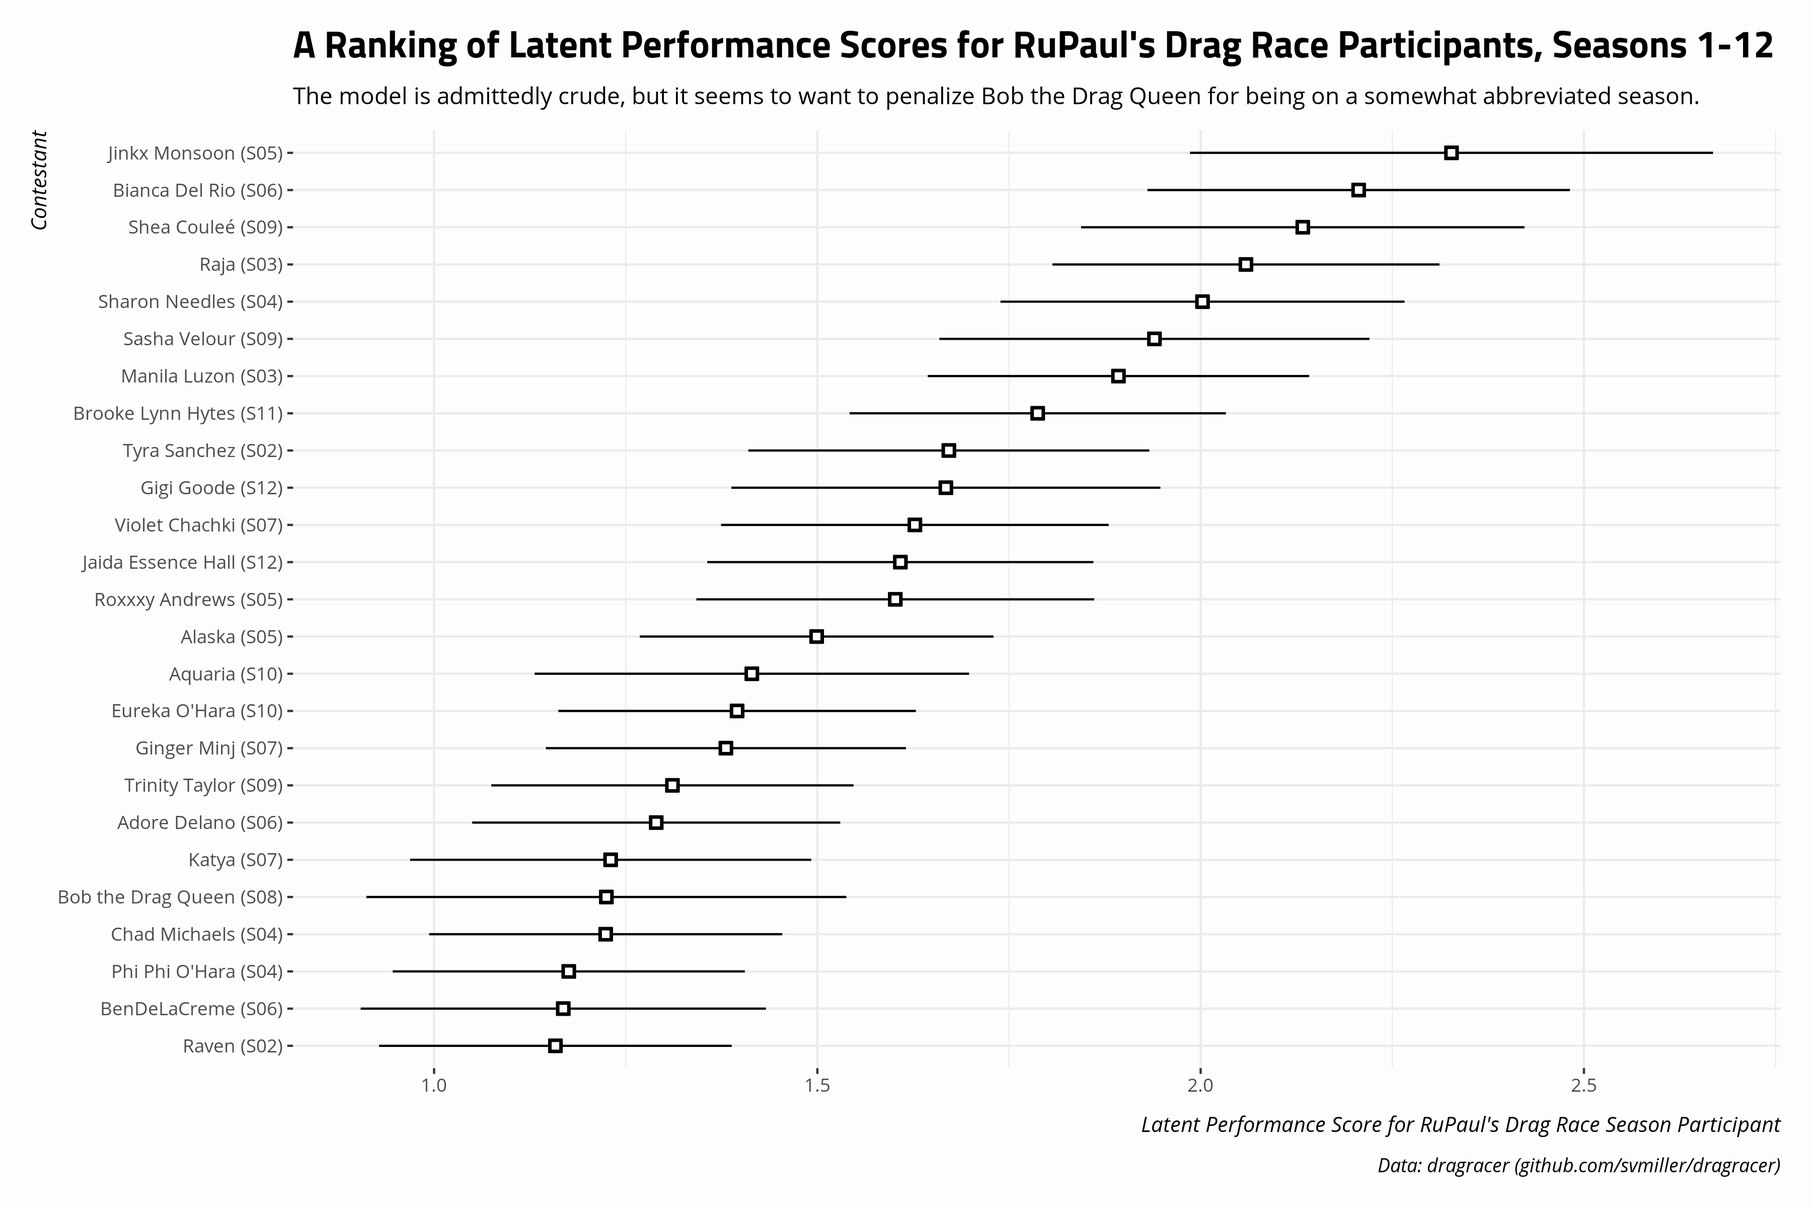
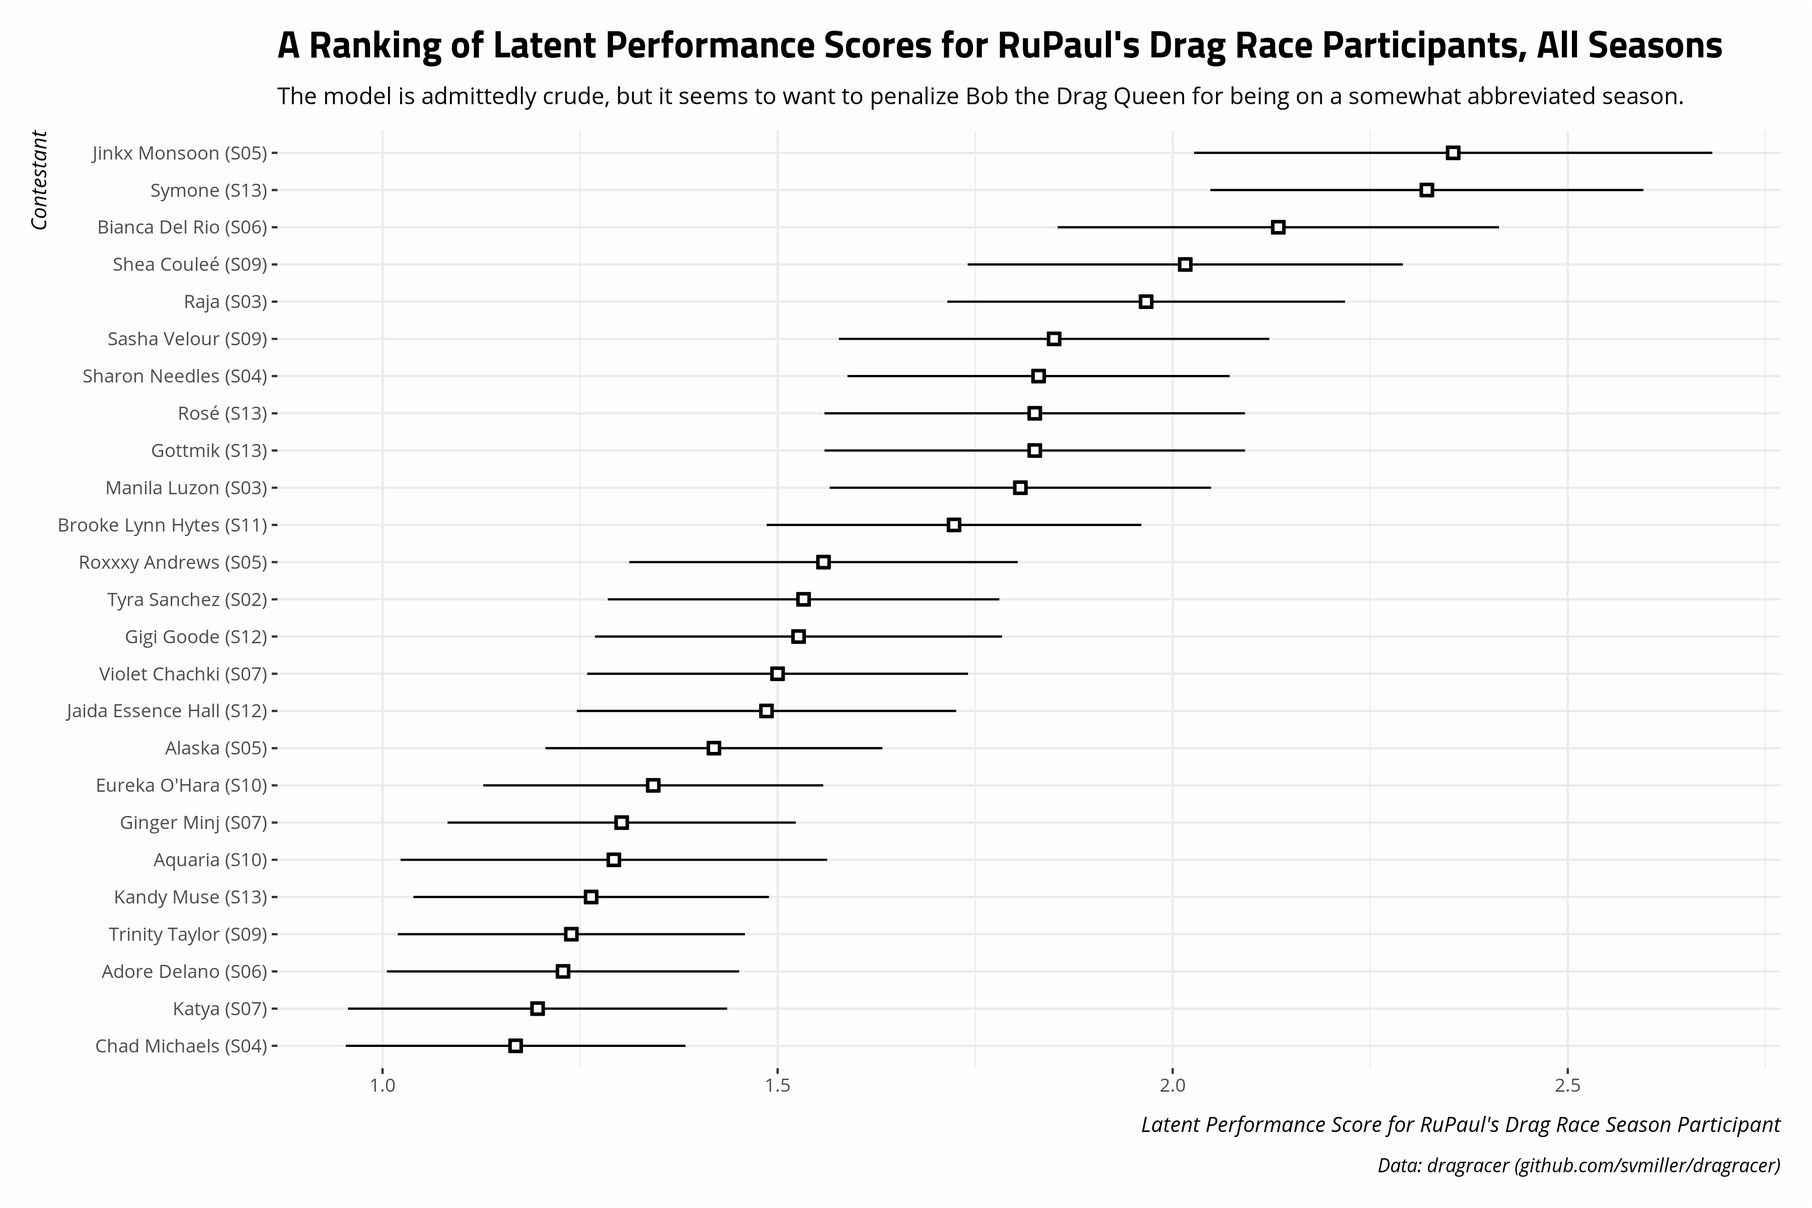
update

diff --git a/_posts/2019-02-17-dragracer-rupauls-drag-race-analysis.md b/_posts/2019-02-17-dragracer-rupauls-drag-race-analysis.md
@@ -21,7 +21,7 @@ image: "kameron-michaels.jpg"
 
 <!-- {% include image.html url="/images/kameron-michaels.jpg" caption="Kameron Michaels isn't quite sure what's happening below, but she's certainly a little revolted at the sight." width=410 align="right" %} -->
 
-*Last updated: March 20, 2021*
+*Last updated: April 24, 2021*
 
 My wife got me hooked into watching RuPaul's Drag Race with her. The long and short of it is I didn't need to have my arm twisted to watch or enjoy the show. Indeed, drag nights at Icon in Tuscaloosa---incidentally home to [the performer who gave Trinity her "Tuck" moniker](https://twitter.com/leland2genesis?lang=en)---are some of my fondest memories of graduate school. A performer who routinely served as opening act for her---[and sadly passed away](http://obits.al.com/obituaries/birmingham/obituary.aspx?n=kevin-thomas&pid=188344432&fhid=6039) last year---was among the sweetest/kindest people I knew in town.[^herdoc] I had a receptiveness to drag as concept and creative outlet, but oddly did not know about the show until my wife told me about it.
 
@@ -44,6 +44,7 @@ Here's a table of contents for this post, especially if you want to jump past th
     - [Assorted Season 1-10 🔥 Takes](#season10takes)
     - [Season 11 🔥 Takes](#season11takes)
     - [Season 12 🔥 Takes](#season12takes)
+    - [Season 13 🔥 Takes](#season13takes)
 
 ## About the Data/Methods {#datamethods}
 
@@ -59,17 +60,18 @@ There are some additional caveats.
 - The episode-level data has a `numqueens` column that codes the number of participants who were active in the episode. There were several cases where RuPaul reintroduced a performer---or, in the case of Season 7, an entire damn cast---at the start of the episode. In more than a few cases, those reintroduced were eliminated the exact same episode.
 - Related to that: I code that episode in Season 7 as a case where Pearl and Trixie Mattel were joint winners.
 - The finales for Season 9 and Season 10 are cases where the runner-up(s) (e.g. Peppermint, Season 9) scored high and those who lost the semifinals (e.g. Trinity Taylor, Season 9) were bottoms for that episode. Again, these are finales so the user should subset them out when comparing queens across different seasons.
+- Season 13 is going to be a clear outlier in comparing across seasons. If you wanted to standardize and compare across seasons in an honest way, you should probably omit the first three episodes as "uncompetitive" or "specials." My own interpretation is that a non-finale episode is "competitive" when there is a bottom-two lip-sync and someone could go home (even if it's a double-shantay). I elect to not do that here, just for ease.
 
 ## An Empirical Analysis of RuPaul's Drag Race Performances {#empirical}
 
-The data are far from perfect or complete, but they're workable for an empirical analysis of contestant performance for the 11 main seasons of RuPaul's Drag Race. Here, I'll explore some of the best performers in the herstory of the show with some rudimentary metrics. Namely, which contestants had the highest percentage of competitive (i.e. non-special, but non-finale) episodes in which they won, or scored high/won? Which queens scored the highest on the ["Dusted or Busted" scoring system](https://rupaulsdragrace.fandom.com/wiki/%22Dusted_or_Busted%22_Scoring_System)? The data aren't too hard to generate and require a few lines in `{tidyverse}`. The [source code](https://github.com/svmiller/svmiller.github.io/blob/master/_source/2019-02-17-dragracer-rupauls-drag-race-analysis.Rmd), along with version herstory, is available on the `_source` directory for my website. 
+The data are far from perfect or complete, but they're workable for an empirical analysis of contestant performance for all seasons of RuPaul's Drag Race (excluding All-Stars, which would be a mess to standardize). Here, I'll explore some of the best performers in the herstory of the show with some rudimentary metrics. Namely, which contestants had the highest percentage of competitive (i.e. non-special, but non-finale) episodes in which they won, or scored high/won? Which queens scored the highest on the ["Dusted or Busted" scoring system](https://rupaulsdragrace.fandom.com/wiki/%22Dusted_or_Busted%22_Scoring_System)? The data aren't too hard to generate and require a few lines in `{tidyverse}`. The [source code](https://github.com/svmiller/svmiller.github.io/blob/master/_source/2019-02-17-dragracer-rupauls-drag-race-analysis.Rmd), along with version herstory, is available on the `_source` directory for my website. 
 
 ### Comparing the Season Winners {#comparingseasonwinners}
 
-This will facilitate some kind of comparison, say, among the season-winners by reference to thier performance in main challenges/runways through the course of a season. I choose to focus on the percentage of wins, bottoms, etc. because the number of competitive episodes varies considerably through the 12 seasons. For example, Bebe Zahara Benet had just six episodes before the finale in which she could've been eliminated. Raja, Season's 3 winner, had the most (12). Seasons since then have had 10 or 11 competitive episodes, excluding the eight competitive episodes in Season 8.
+This will facilitate some kind of comparison, say, among the season-winners by reference to thier performance in main challenges/runways through the course of a season. I choose to focus on the percentage of wins, bottoms, etc. because the number of competitive episodes varies considerably through the 12 seasons. For example, Bebe Zahara Benet had just six episodes before the finale in which she could've been eliminated. Raja, Season's 3 winner, had 12. Seasons since then have had 10 or 11 competitive episodes, excluding the eight competitive episodes in Season 8. Season 13 was particularly long.
 
 <table id="stevetable">
-<caption>Ranking the RuPaul's Drag Race Winners from Season 1 to Season 12</caption>
+<caption>Ranking the RuPaul's Drag Race Winners Across All Seasons</caption>
  <thead>
   <tr>
    <th style="text-align:center;"> season </th>
@@ -190,6 +192,15 @@ This will facilitate some kind of comparison, say, among the season-winners by r
    <td style="text-align:center;"> 8.33% </td>
    <td style="text-align:center;"> 6 </td>
   </tr>
+  <tr>
+   <td style="text-align:center;"> S13 </td>
+   <td style="text-align:left;"> Symone </td>
+   <td style="text-align:center;"> 35.71% </td>
+   <td style="text-align:center;"> 50% </td>
+   <td style="text-align:center;"> 14.29% </td>
+   <td style="text-align:center;"> 14.29% </td>
+   <td style="text-align:center;"> 8 </td>
+  </tr>
 </tbody>
 </table>
 
@@ -210,7 +221,7 @@ The conclusion of Season 11 and addition of Yvie Oddly to this list of winners m
 I added an indicator to the contestant-episode data after season 12 noting which contestant was Miss Congeniality for the season. From there, we can compare the Miss Congenialities (sic?) across seasons.
 
 <table id="stevetable">
-<caption>Comparing Miss Congenialities, Season 1 to Season 12</caption>
+<caption>Comparing Miss Congenialities, All Seasons</caption>
  <thead>
   <tr>
    <th style="text-align:center;"> Season </th>
@@ -344,6 +355,16 @@ I added an indicator to the contestant-episode data after season 12 noting which
    <td style="text-align:center;"> 50% </td>
    <td style="text-align:center;"> -5 </td>
   </tr>
+  <tr>
+   <td style="text-align:center;"> S13 </td>
+   <td style="text-align:left;"> LaLa Ri </td>
+   <td style="text-align:center;"> 10 </td>
+   <td style="text-align:center;"> 16.67% </td>
+   <td style="text-align:center;"> 16.67% </td>
+   <td style="text-align:center;"> 33.33% </td>
+   <td style="text-align:center;"> 50% </td>
+   <td style="text-align:center;"> -3 </td>
+  </tr>
 </tbody>
 </table>
 
@@ -353,14 +374,14 @@ Nina Flowers has a special place in Drag Race herstory. It is highly unlikely th
 
 Second, my modeling of the data is particularly sanguine about Katya and BenDeLaCreme and how good they were in their respective seasons. As it is, my simple item response model later in this post features them prominently in the list of top 25 performers in the show's herstory, which is almost entirely comprised of season winners and runners-up. They are basically the lowest-ranked performers to appear in that top 25 list. Both were incidentally the Miss Congeniality winners for the season. 
 
-Finally, the most recent Miss Congeniality (as of writing) comes out as having the lowest D/B score among the Miss Congeniality winners. However, those who just watched the show know Heidi is a case of a performer gradually coming into her own as the season progressed and a case where metrics of season performance don't capture how enjoyable she was. Yet, she spent half the season in the bottom two or with a low evaluation.
+Finally, Heidi N Closet emerges as having the lowest D/B score among the Miss Congeniality winners. However, those who just watched the show know Heidi is a case of a performer gradually coming into her own as the season progressed and a case where metrics of season performance don't capture how enjoyable she was. Yet, she spent half the season in the bottom two or with a low evaluation.
 
 ### Who Were the Lowest-Ranked Performers to Land in the Top Four? {#lowesttop4}
 
-The data can also be used to identify the lowest-scoring performers to get a top four finish in the show's 12 seasons. There are several metrics available for ranking these performers, but I'll go in descending order, by "Dusted or Busted" score.
+The data can also be used to identify the lowest-scoring performers to get a top four finish across all seasons. There are several metrics available for ranking these performers, but I'll go in descending order, by "Dusted or Busted" score.
 
 <table id="stevetable">
-<caption>The Lowest Ranked Top Four Performers from Season 1 to Season 12</caption>
+<caption>The Lowest Ranked Top Four Performers Across All Seasons</caption>
  <thead>
   <tr>
    <th style="text-align:center;"> season </th>
@@ -489,14 +510,14 @@ Jackie Cox's entry into this list does hurt a little, the extent to which she wa
 
 ### Which Contestants Were "Robbed" in Their Season? {#robbed}
 
-I added this table after Season 11 ended because the selection of the champion is arguably a bit controversial. Not only does Yvie have the lowest "Dusted or Busted" score of any champion in a given season, but the queen she beat in the finale, Brooke Lynn Hytes, had a "Dusted or Busted" score a full three points higher. In fact, a latent variable analysis that I provide below will contend Brooke Lynne Hytes had the eighth best season of any performer in the show's herstory.
+I added this table after Season 11 ended because the selection of the champion is arguably a bit controversial. Not only does Yvie have the lowest "Dusted or Busted" score of any champion in a given season, but the queen she beat in the finale, Brooke Lynn Hytes, had a "Dusted or Busted" score a full three points higher. In fact, a latent variable analysis that I provide below will contend Brooke Lynne Hytes had one of the best seasons of any performer in the show's herstory.
 
 This would not be the first time a queen was "robbed" from winning her particular season (at least, if that's how you want to spin it). Long-time fans of the show probably know Ru started the first season with the idea of crowning BeBe Zahara Benet at the end, forgetting along the way that it meant Nina Flowers had a better season and finished second. The most prominent case of this might have been Shea Couleé, who entered the semifinals as the top performer in that season and was bulldozed in the semifinal by arguably the best individual lip sync in the show's herstory. Sasha Velour deserved to advance on the merits of the lip sync but it did mean Shea Couleé, who had arguably the third best run in the show's herstory to that point, did not snatch the crown.
 
-There are four such cases I show below where an individual performer had a higher "Dusted or Busted" score than the eventual winner that season. All four have unique situations. Nina finished second despite having the overall better record than Bebe Zahara Benet, but Ongina was woefully underplaced in her season. She too had a better "Dusted or Busted" score than the eventual champion, but finished in fifth place. Shea Couleé had arguably the best season run in the show's herstory but was eliminated in the semifinals. More recently, Brooke Lynn Hytes can now boast the biggest point differential in show herstory over an eventual champion. Her three-point cushion over the eventual season champion may not be topped.
+There are a few cases I show below where an individual performer had a higher "Dusted or Busted" score than the eventual winner that season, with more of them coming in more recent seasons. All have unique situations. Nina finished second despite having the overall better record than Bebe Zahara Benet, but Ongina was woefully underplaced in her season. She too had a better "Dusted or Busted" score than the eventual champion, but finished in fifth place. Shea Couleé had arguably the best season run in the show's herstory but was eliminated in the semifinals. More recently, Brooke Lynn Hytes can now boast the biggest point differential in show herstory over an eventual champion. Her three-point cushion over the eventual season champion may not be topped.
 
 <table id="stevetable">
-<caption>Queens Whose D/B Scores Were Greater Than the Season Champion</caption>
+<caption>Queens Whose D/B Scores Were Greater Than the Season Champion, All Seasons</caption>
  <thead>
   <tr>
    <th style="text-align:center;"> Season </th>
@@ -553,6 +574,24 @@ There are four such cases I show below where an individual performer had a highe
    <td style="text-align:center;"> 3 </td>
    <td style="text-align:center;"> 7 </td>
    <td style="text-align:center;"> 6 </td>
+  </tr>
+  <tr>
+   <td style="text-align:center;"> S13 </td>
+   <td style="text-align:left;"> Gottmik </td>
+   <td style="text-align:center;"> 3 </td>
+   <td style="text-align:center;"> 3 </td>
+   <td style="text-align:center;"> 5 </td>
+   <td style="text-align:center;"> 9 </td>
+   <td style="text-align:center;"> 8 </td>
+  </tr>
+  <tr>
+   <td style="text-align:center;"> S13 </td>
+   <td style="text-align:left;"> Rosé </td>
+   <td style="text-align:center;"> 3 </td>
+   <td style="text-align:center;"> 3 </td>
+   <td style="text-align:center;"> 5 </td>
+   <td style="text-align:center;"> 9 </td>
+   <td style="text-align:center;"> 8 </td>
   </tr>
 </tbody>
 </table>
@@ -715,7 +754,7 @@ The top 25 participants on this metric are listed below, with accompanying stand
 
 ![plot of chunk top-rupauls-drag-race-performers](/images/top-rupauls-drag-race-performers-1.png)
 
-Fans of the show are free to read into this what they want. I'm not too invested in what this demonstrates, but a few things are worth mentioning as quick hitters.
+Fans of the show are free to read into this what they want. Several Season 13 scores are going to be functions of those first three episodes, which will artificially prop up some scores even if (I think) they were uncompetitive. I'm not too invested in what this demonstrates, but a few things are worth mentioning as quick hitters.
 
 {% include image.html url="/images/bendela-going-home.gif" caption="She went home." width=250 align="right" %}
 
@@ -802,3 +841,17 @@ Related: I'm not saying RuPaul has it out for the San Francisco drag scene, but 
 I think I have a good intuition to what RuPaul wants to do in a given season. [I called Yvie winning Season 11](https://twitter.com/stevenvmiller/status/1101109692498132998?ref_src=twsrc%5Etfw"). My wife can attest that I had pegged All Stars 2 and All Stars 4 to be victory laps for Alaska and Trinity (still counts), respectively. I got it wrong this season. My intuition was Ru was looking for a "political" winner in the season preceding a presidential election. I thought that would be Jackie, and it was not. At least [Jackie gave us the season's best lip-sync](http://svmiller.com/blog/2020/05/jackie-cox-rupauls-drag-race-firework-lipsync/). 
 
 Do I get partial credit for the season's winner being the one who won the political challenge, though? For the three seasons that have preceded a presidential election (Seasons 4, 8, and 12), the winners of the season's political challenge won the crown at the season's end.
+
+### Season 13 🔥 Takes {#season13takes}
+
+This season had some promise at the onset but felt like a slog to finish. It didn't help that Season 13's longevity clashed with the restart of the second season of Drag Race UK. The latter was infinitely more enjoyable. As far as I'm concerned, Victoria Green is the uncrowned, people's champion of Drage Race UK and probably Season 13 as well.
+
+I do appreciate that Season 13 allowed for a few non-competitive episodes before sending the first performer home. Thus, the viewer got to see more of someone like Kahmora Hall that better showcased her drag before giving her the first-out label. And that's good! Imagine the kinds of things we'd have seen from Kelly Mantle or Jaymes Mansfield if they had that opportunity as well. However, it just felt like a chore near the end. The season definitely did not need a double shantay.
+
+Related, and at the risk of naming names, there is a subset of performer for whom "to spill the tea" and "to be honest with you" amounts to an ability to give criticism and not receive it. We all know those people and they're not a whole lot of fun.
+
+I think part of the issue was the show had two unfortunate problems that kind of undercut it as the season progressed. For one, the performers for whom we thought there was the most promise---thinking of Olivia Lux and Utica Queen---really ran out of steam near the end. In some cases, it amounted to a pivot into car-crash television for the show. Related, the performers who were abruptly eliminated became performers we wish we could see more. Denali especially stands out here. I could offer a similar comment about Elliott with 2 Ts and Joey Jay. Joey Jay, in particular, was a lot of fun to watch and Elliott's dancing ability really showed.
+
+For the life of me, I don't understand why it became a theme of this season that Rosé tried to be "too perfect" or "too polished." Like, what even is that? I'll say this from my perspective. I'm a university professor who has endeavored my entire life to cultivate and develop my passions from my youth. I find things that interest me and I invest time and energy into knowing everything I can about them while trying to be as good as I feasibly can be at them. This ranges from what led me to get a PhD to other interests in things like luthiery and computer programming. I'm also a guy who has struggled my entire life with understanding how people work and how society operates. At some base level, I really don't get it. I don't understand how other people operate (beyond all things political, given my training). I'm also aware I can't be an asshole and try to impose my will on others amid my confusion. Being a good, socially responsible person is in part about identifying contraints---things you cannot do nor say---and operating within them. These are constraints that emerge because saying or doing these things impose harm on others, if not yourself, and things fall apart pretty quickly if everyone violates these constraints and the end result makes everyone worse off. Toward that end, that's really the only thing at some base level that made sense to me about living in society. If you're a mindful person with good intentions, and the kind of person prone to analysis paralysis, it means you're probably going to be super mindful of your Ps and Qs so that you don't say something that accidentally makes someone uncomfortable. Few things give me hives quite like being misinterpreted, either because I did not know how to perfectly say what I intended to say, or because I spoke off the cuff and said something the wrong way that hurt someone. From my perspective, someone like Rosé was super relatable. She's passionate about what she does. She's (clearly) great at what she does. She's also super mindful about what she says and she does as she focuses on her craft. I don't know if she struggles with these things as well as I mentioned them, but those particular criticisms leveled against her---I'll be polite---make zero sense. It was just a weird character arc this season, made even weirder that those were comments raised by both fellow performers and the show's judges.
+
+I don't think it's hyperbole to say Denali might be the most interesting contestant they've ever had, at least when combining the queen we see on television with the details of the performer behind the queen. [Denali's wiki](https://rupaulsdragrace.fandom.com/wiki/Denali#Trivia) has a whole host of things that I wish came up on the show or were discussed more.
